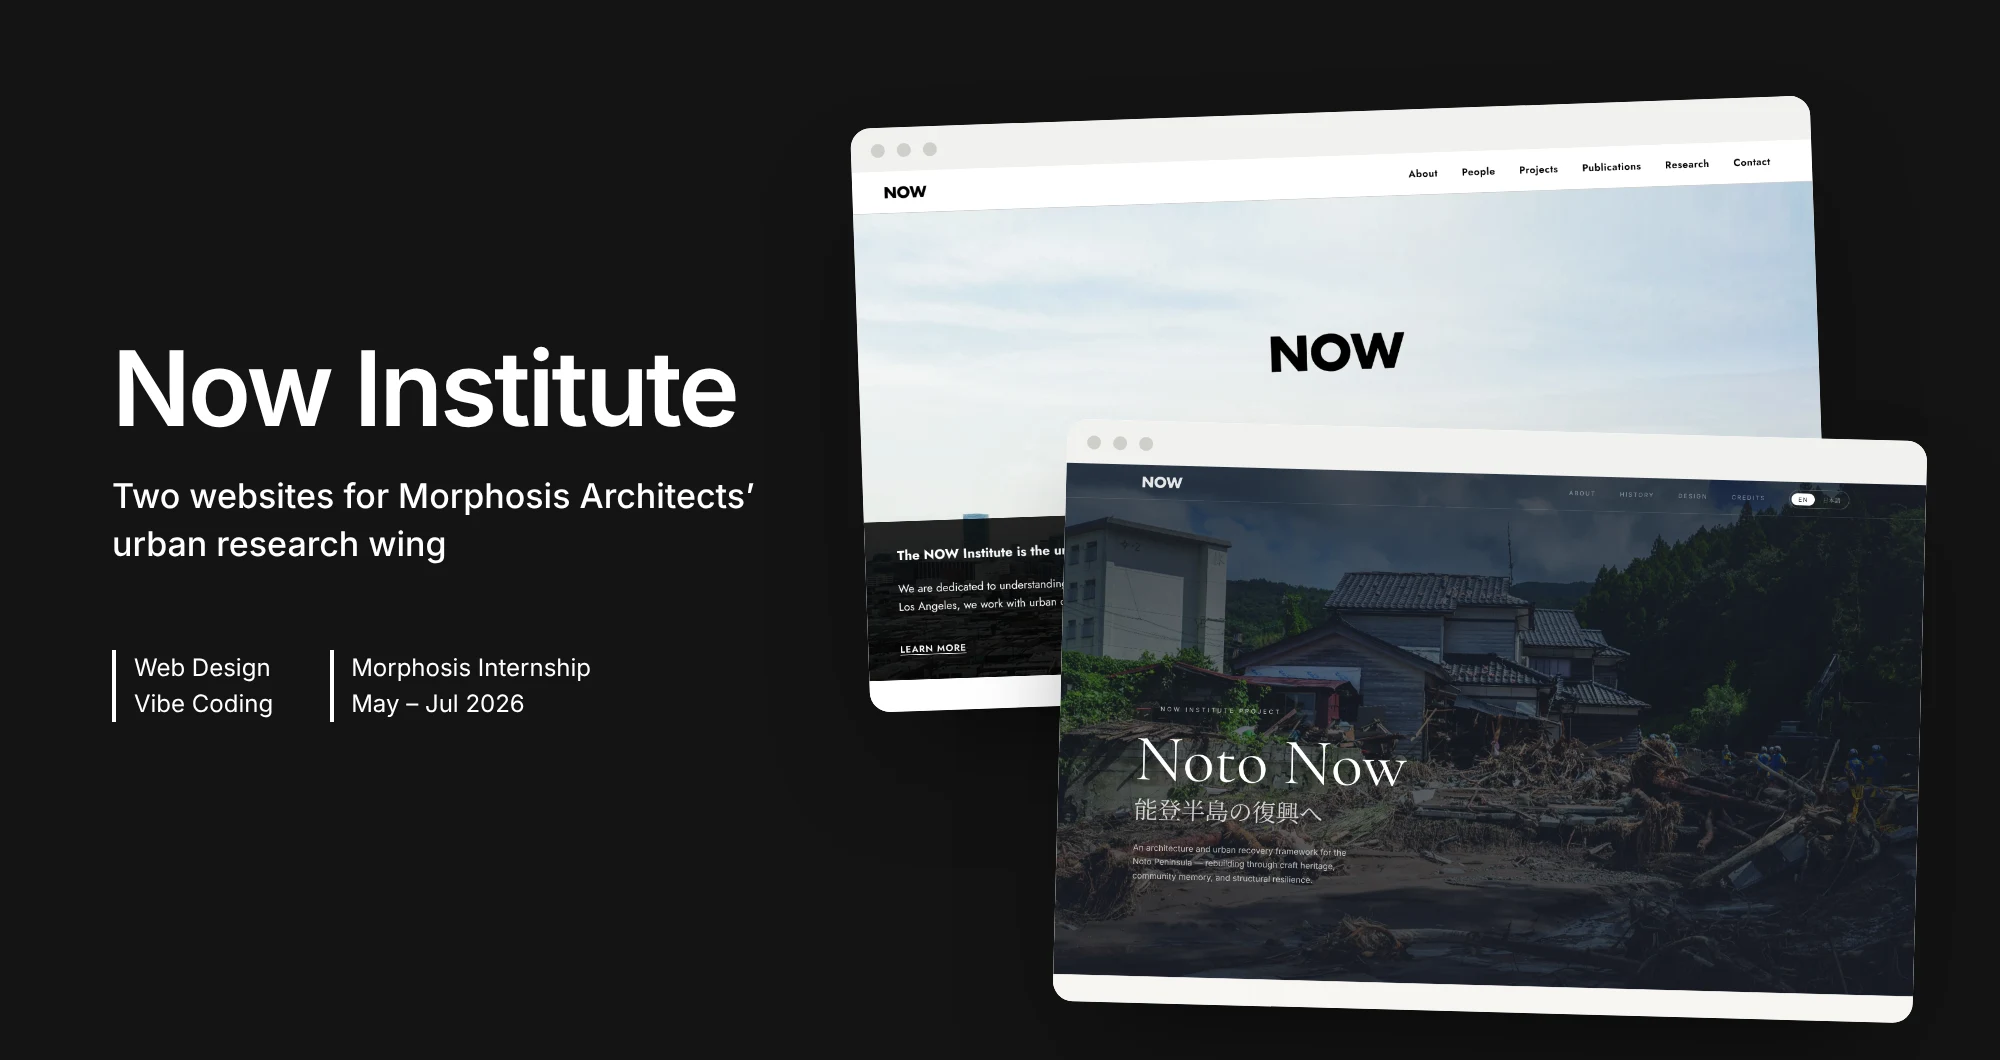
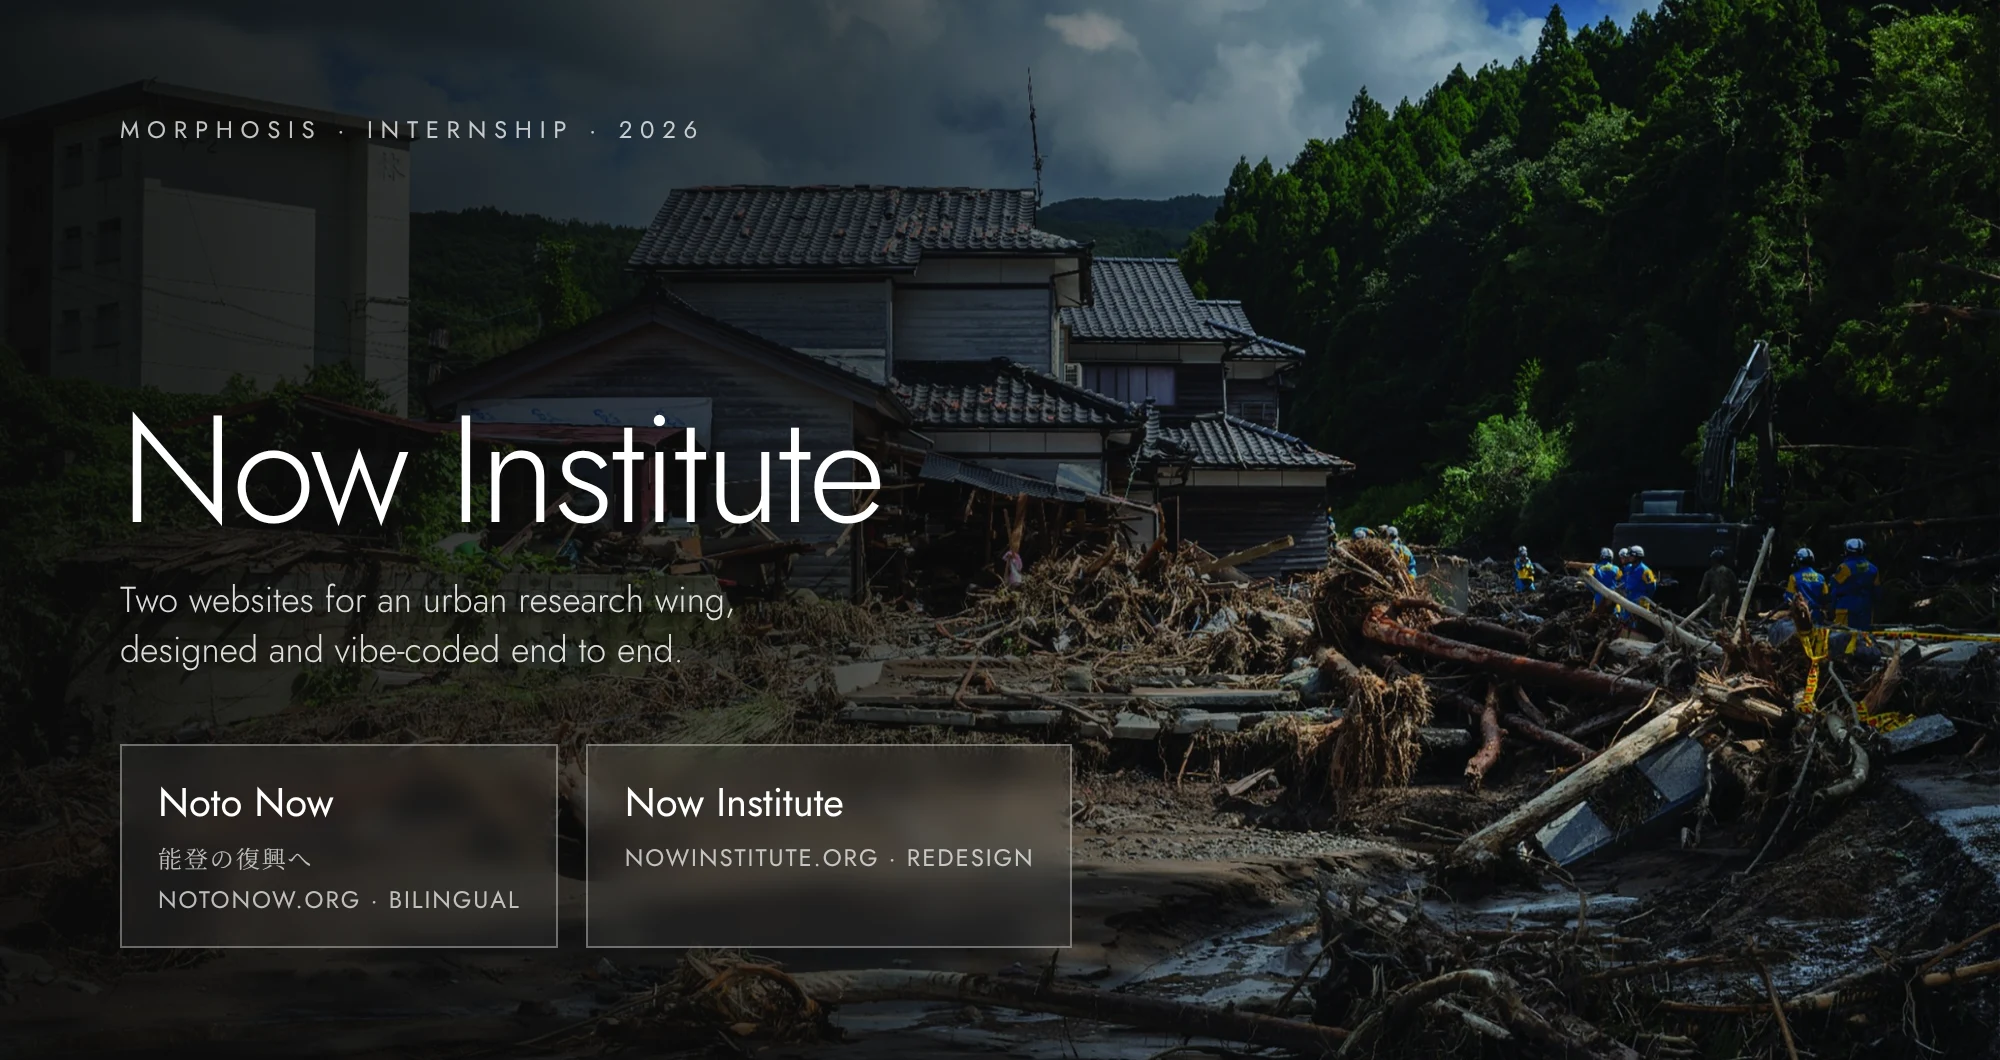
Tailored covers for Now Institute and Travel Mate
- Now Institute: editorial cover on the Noto Now hero photo (Jost and Noto
  Serif JP, matching the two sites), with a card for each website instead
  of browser mockups.
- Travel Mate: bright sky-blue Korea-trip cover in the app's blue, Korean
  name tag, boarding-pass details, a dashed flight path ending at the app's
  Seoul illustration, and the home screen in a phone.

Claude-Session: https://claude.ai/code/session_01XrSCNk8CdZFL88DQkgrBgR

diff --git a/ux.html b/ux.html
@@ -27,7 +27,7 @@
 <main class="page page-page" id="ux">
 <div class="page-content">
 <header class="cs-head"><h1 class="cs-title">UX Design<span class="dot">.</span></h1><p class="cs-sub">Case studies in research, product design and building, from internships, leadership roles and team projects.</p></header>
-<div class="gproj-list"><a class="gproj" href="now-institute.html"><div class="gproj-cover gproj-cover--bleed" style="aspect-ratio:2000/1060"><img alt="Now Institute cover" loading="lazy" onerror="this.hidden=true" src="images/index/cover-now-institute.webp"/></div><div class="gproj-txt"><span class="gproj-n">(01)</span><h2 class="gproj-t">Now Institute</h2><p class="gproj-sub">Two websites for Morphosis Architects’ urban research wing</p><p class="gproj-d">Designed and vibe-coded Noto Now and the Now Institute site, from research on every project to two live launches.</p><dl class="gproj-meta"><dt>Year</dt><dd>May – Jul 2026</dd><dt>Role</dt><dd>UX Design Intern, Morphosis</dd><dt>Tools</dt><dd>Figma, Claude Code, Vercel</dd></dl><div class="gproj-strip" style="grid-template-columns:178.97fr 177.78fr 166.67fr"><img alt="" loading="lazy" src="images/now-institute/03-screenshot-1778536857657.png" style="aspect-ratio:1.7897"/><img alt="" loading="lazy" src="images/now-institute/02-screenshot-2026-07-13-at-3.52.46pm.webp" style="aspect-ratio:1.7778"/><img alt="" loading="lazy" src="images/now-institute/04-notonow.png" style="aspect-ratio:1.6667"/></div><span class="gproj-go">View case study →</span></div></a><a class="gproj" href="hfes-stg.html"><div class="gproj-cover gproj-cover--bleed" style="aspect-ratio:2000/1000"><img alt="HFES STG cover" loading="lazy" onerror="this.hidden=true" src="images/index/cover-hfes-stg.webp"/></div><div class="gproj-txt"><span class="gproj-n">(02)</span><h2 class="gproj-t">HFES STG</h2><p class="gproj-sub">A website for the Sustainability Technical Group</p><p class="gproj-d">Led a volunteer team from a 200+ member survey through card sorting, testing and launch.</p><dl class="gproj-meta"><dt>Year</dt><dd>Aug 2025 – May 2026</dd><dt>Role</dt><dd>Website Lead</dd><dt>Methods</dt><dd>Survey, card sort, usability tests</dd></dl><div class="gproj-strip" style="grid-template-columns:196.46fr 133.78fr"><img alt="" loading="lazy" src="images/hfes-stg/04-screenshot-2026-03-27-at-3.34.46pm.png" style="aspect-ratio:1.9646"/><img alt="" loading="lazy" src="images/hfes-stg/06-wireframes.png" style="aspect-ratio:1.3378"/></div><span class="gproj-go">View case study →</span></div></a><a class="gproj" href="migrant-compass.html"><div class="gproj-cover gproj-cover--bleed" style="aspect-ratio:1920/940"><img alt="Migrant Compass cover" loading="lazy" onerror="this.hidden=true" src="images/index/05-title-page1.webp"/></div><div class="gproj-txt"><span class="gproj-n">(03)</span><h2 class="gproj-t">Migrant Compass</h2><p class="gproj-sub">Real-time guidance for migrants</p><p class="gproj-d">An offline-ready app giving migrants verified safety updates and resources, built at the IDEA Lab @ Fletcher.</p><dl class="gproj-meta"><dt>Year</dt><dd>Sep – Nov 2025</dd><dt>Role</dt><dd>UX research & design</dd><dt>Tools</dt><dd>Figma</dd></dl><div class="gproj-strip" style="grid-template-columns:50.96fr 51.02fr 51.02fr 45.40fr"><img alt="" loading="lazy" src="images/migrant-compass/06-migrant-compass-mobile-app-wireframe.png" style="aspect-ratio:0.5096"/><img alt="" loading="lazy" src="images/migrant-compass/15-migrant-compass-mobile-app-wireframe.png" style="aspect-ratio:0.5102"/><img alt="" loading="lazy" src="images/migrant-compass/19-w.png" style="aspect-ratio:0.5102"/><img alt="" loading="lazy" src="images/migrant-compass/21-4.png" style="aspect-ratio:0.4540"/></div><span class="gproj-go">View case study →</span></div></a><a class="gproj" href="travel-mate.html"><div class="gproj-cover gproj-cover--bleed" style="aspect-ratio:2000/1000"><img alt="Travel Mate cover" loading="lazy" onerror="this.hidden=true" src="images/index/cover-travel-mate.webp"/></div><div class="gproj-txt"><span class="gproj-n">(04)</span><h2 class="gproj-t">Travel Mate</h2><p class="gproj-sub">Group travel planning app</p><p class="gproj-d">Search, shared itineraries and expenses for planning a Korea trip with friends, designed with developers.</p><dl class="gproj-meta"><dt>Year</dt><dd>Sep – Dec 2024</dd><dt>Role</dt><dd>UX design, design system</dd><dt>Team</dt><dd>3 designers, 2 developers</dd></dl><div class="gproj-strip" style="grid-template-columns:83.95fr 78.85fr 134.05fr"><img alt="" loading="lazy" src="images/travel-mate/08-ia.png" style="aspect-ratio:0.8395"/><img alt="" loading="lazy" src="images/travel-mate/31-sheet-stay-dates.webp" style="aspect-ratio:0.7885"/><img alt="" loading="lazy" src="images/travel-mate/32-sheet-trip-dates.webp" style="aspect-ratio:1.3405"/></div><span class="gproj-go">View case study →</span></div></a><a class="gproj" href="trendy.html"><div class="gproj-cover gproj-cover--bleed" style="aspect-ratio:1500/734"><img alt="Trendy cover" loading="lazy" onerror="this.hidden=true" src="images/trendy/01-trendy.webp"/></div><div class="gproj-txt"><span class="gproj-n">(05)</span><h2 class="gproj-t">Trendy</h2><p class="gproj-sub">Beauty & fashion trend app</p><p class="gproj-d">A solo project taking a trend-shopping app from interviews and competitor research to brand and UI.</p><dl class="gproj-meta"><dt>Year</dt><dd>Aug 2024</dd><dt>Role</dt><dd>Solo designer</dd><dt>Methods</dt><dd>Interviews, journey map</dd></dl><div class="gproj-strip" style="grid-template-columns:235.78fr 167.52fr"><img alt="" loading="lazy" src="images/trendy/05-persona.webp" style="aspect-ratio:2.3578"/><img alt="" loading="lazy" src="images/trendy/10-final-screens.webp" style="aspect-ratio:1.6752"/></div><span class="gproj-go">View case study →</span></div></a></div>
+<div class="gproj-list"><a class="gproj" href="now-institute.html"><div class="gproj-cover gproj-cover--bleed" style="aspect-ratio:2000/1060"><img alt="Now Institute cover" loading="lazy" onerror="this.hidden=true" src="images/index/cover-now-institute.webp?v=2"/></div><div class="gproj-txt"><span class="gproj-n">(01)</span><h2 class="gproj-t">Now Institute</h2><p class="gproj-sub">Two websites for Morphosis Architects’ urban research wing</p><p class="gproj-d">Designed and vibe-coded Noto Now and the Now Institute site, from research on every project to two live launches.</p><dl class="gproj-meta"><dt>Year</dt><dd>May – Jul 2026</dd><dt>Role</dt><dd>UX Design Intern, Morphosis</dd><dt>Tools</dt><dd>Figma, Claude Code, Vercel</dd></dl><div class="gproj-strip" style="grid-template-columns:178.97fr 177.78fr 166.67fr"><img alt="" loading="lazy" src="images/now-institute/03-screenshot-1778536857657.png" style="aspect-ratio:1.7897"/><img alt="" loading="lazy" src="images/now-institute/02-screenshot-2026-07-13-at-3.52.46pm.webp" style="aspect-ratio:1.7778"/><img alt="" loading="lazy" src="images/now-institute/04-notonow.png" style="aspect-ratio:1.6667"/></div><span class="gproj-go">View case study →</span></div></a><a class="gproj" href="hfes-stg.html"><div class="gproj-cover gproj-cover--bleed" style="aspect-ratio:2000/1000"><img alt="HFES STG cover" loading="lazy" onerror="this.hidden=true" src="images/index/cover-hfes-stg.webp"/></div><div class="gproj-txt"><span class="gproj-n">(02)</span><h2 class="gproj-t">HFES STG</h2><p class="gproj-sub">A website for the Sustainability Technical Group</p><p class="gproj-d">Led a volunteer team from a 200+ member survey through card sorting, testing and launch.</p><dl class="gproj-meta"><dt>Year</dt><dd>Aug 2025 – May 2026</dd><dt>Role</dt><dd>Website Lead</dd><dt>Methods</dt><dd>Survey, card sort, usability tests</dd></dl><div class="gproj-strip" style="grid-template-columns:196.46fr 133.78fr"><img alt="" loading="lazy" src="images/hfes-stg/04-screenshot-2026-03-27-at-3.34.46pm.png" style="aspect-ratio:1.9646"/><img alt="" loading="lazy" src="images/hfes-stg/06-wireframes.png" style="aspect-ratio:1.3378"/></div><span class="gproj-go">View case study →</span></div></a><a class="gproj" href="migrant-compass.html"><div class="gproj-cover gproj-cover--bleed" style="aspect-ratio:1920/940"><img alt="Migrant Compass cover" loading="lazy" onerror="this.hidden=true" src="images/index/05-title-page1.webp"/></div><div class="gproj-txt"><span class="gproj-n">(03)</span><h2 class="gproj-t">Migrant Compass</h2><p class="gproj-sub">Real-time guidance for migrants</p><p class="gproj-d">An offline-ready app giving migrants verified safety updates and resources, built at the IDEA Lab @ Fletcher.</p><dl class="gproj-meta"><dt>Year</dt><dd>Sep – Nov 2025</dd><dt>Role</dt><dd>UX research & design</dd><dt>Tools</dt><dd>Figma</dd></dl><div class="gproj-strip" style="grid-template-columns:50.96fr 51.02fr 51.02fr 45.40fr"><img alt="" loading="lazy" src="images/migrant-compass/06-migrant-compass-mobile-app-wireframe.png" style="aspect-ratio:0.5096"/><img alt="" loading="lazy" src="images/migrant-compass/15-migrant-compass-mobile-app-wireframe.png" style="aspect-ratio:0.5102"/><img alt="" loading="lazy" src="images/migrant-compass/19-w.png" style="aspect-ratio:0.5102"/><img alt="" loading="lazy" src="images/migrant-compass/21-4.png" style="aspect-ratio:0.4540"/></div><span class="gproj-go">View case study →</span></div></a><a class="gproj" href="travel-mate.html"><div class="gproj-cover gproj-cover--bleed" style="aspect-ratio:2000/1000"><img alt="Travel Mate cover" loading="lazy" onerror="this.hidden=true" src="images/index/cover-travel-mate.webp?v=2"/></div><div class="gproj-txt"><span class="gproj-n">(04)</span><h2 class="gproj-t">Travel Mate</h2><p class="gproj-sub">Group travel planning app</p><p class="gproj-d">Search, shared itineraries and expenses for planning a Korea trip with friends, designed with developers.</p><dl class="gproj-meta"><dt>Year</dt><dd>Sep – Dec 2024</dd><dt>Role</dt><dd>UX design, design system</dd><dt>Team</dt><dd>3 designers, 2 developers</dd></dl><div class="gproj-strip" style="grid-template-columns:83.95fr 78.85fr 134.05fr"><img alt="" loading="lazy" src="images/travel-mate/08-ia.png" style="aspect-ratio:0.8395"/><img alt="" loading="lazy" src="images/travel-mate/31-sheet-stay-dates.webp" style="aspect-ratio:0.7885"/><img alt="" loading="lazy" src="images/travel-mate/32-sheet-trip-dates.webp" style="aspect-ratio:1.3405"/></div><span class="gproj-go">View case study →</span></div></a><a class="gproj" href="trendy.html"><div class="gproj-cover gproj-cover--bleed" style="aspect-ratio:1500/734"><img alt="Trendy cover" loading="lazy" onerror="this.hidden=true" src="images/trendy/01-trendy.webp"/></div><div class="gproj-txt"><span class="gproj-n">(05)</span><h2 class="gproj-t">Trendy</h2><p class="gproj-sub">Beauty & fashion trend app</p><p class="gproj-d">A solo project taking a trend-shopping app from interviews and competitor research to brand and UI.</p><dl class="gproj-meta"><dt>Year</dt><dd>Aug 2024</dd><dt>Role</dt><dd>Solo designer</dd><dt>Methods</dt><dd>Interviews, journey map</dd></dl><div class="gproj-strip" style="grid-template-columns:235.78fr 167.52fr"><img alt="" loading="lazy" src="images/trendy/05-persona.webp" style="aspect-ratio:2.3578"/><img alt="" loading="lazy" src="images/trendy/10-final-screens.webp" style="aspect-ratio:1.6752"/></div><span class="gproj-go">View case study →</span></div></a></div>
 <footer class="site-foot" id="contact">
 <div class="foot-row"><span>Jasmine Kim, UI/UX &amp; Graphic Designer</span>
 <span class="foot-links"><a href="mailto:jasminekim535@gmail.com">Email ↗</a><a href="https://www.linkedin.com/in/jasmine-kim-22838a339/" rel="noopener" target="_blank">LinkedIn ↗</a><a href="https://drive.google.com/file/d/1OOqGdKUFcIr9i4K3hlURFipVqCy_xz__/view?usp=sharing" rel="noopener" target="_blank">Resume ↗</a></span></div>

diff --git a/index.html b/index.html
@@ -32,7 +32,7 @@
 </header>
 <section aria-label="UX case studies" class="rsec" id="work">
 <div class="rsec-head"><h2 class="rsec-title">UX Design</h2><a class="pill" href="ux.html">Take a look</a></div>
-<div class="wkgrid wkgrid--feat"><a class="wk" href="now-institute.html"><div class="wk-img" style="aspect-ratio:2000/1060"><img alt="Now Institute cover" loading="lazy" onerror="this.hidden=true" onload="this.parentNode.style.aspectRatio='auto'" src="images/index/cover-now-institute.webp"/></div><h3 class="wk-title">Now Institute</h3><p class="wk-sub">Website Design for Morphosis</p><ul class="chips"><li>Vibe Coding</li><li>AI Tools</li><li>Prototyping</li><li>Internship</li></ul></a><a class="wk" href="hfes-stg.html"><div class="wk-img" style="aspect-ratio:2000/999"><img alt="HFES STG cover" loading="lazy" onerror="this.hidden=true" onload="this.parentNode.style.aspectRatio='auto'" src="images/index/cover-hfes-stg.webp"/></div><h3 class="wk-title">HFES STG</h3><p class="wk-sub">A website for the technical group</p><ul class="chips"><li>Leadership</li><li>Non-profit</li><li>Usability Testing</li></ul></a><a class="wk" href="migrant-compass.html"><div class="wk-img" style="aspect-ratio:1920/940"><img alt="Migrant Compass cover" loading="lazy" onerror="this.hidden=true" onload="this.parentNode.style.aspectRatio='auto'" src="images/index/05-title-page1.webp"/></div><h3 class="wk-title">Migrant Compass</h3><p class="wk-sub">Real-time guidance for migrants</p><ul class="chips"><li>Problem-solving</li><li>Teamwork</li></ul></a><a class="wk" href="travel-mate.html"><div class="wk-img" style="aspect-ratio:1500/739"><img alt="Travel Mate cover" loading="lazy" onerror="this.hidden=true" onload="this.parentNode.style.aspectRatio='auto'" src="images/index/cover-travel-mate.webp"/></div><h3 class="wk-title">Travel Mate</h3><p class="wk-sub">Group travel planning app</p><ul class="chips"><li>App Design</li><li>Cross-functional Teamwork</li></ul></a><a class="wk" href="trendy.html"><div class="wk-img" style="aspect-ratio:1500/734"><img alt="Trendy cover" loading="lazy" onerror="this.hidden=true" onload="this.parentNode.style.aspectRatio='auto'" src="images/trendy/01-trendy.webp"/></div><h3 class="wk-title">Trendy</h3><p class="wk-sub">Beauty &amp; fashion trend app</p><ul class="chips"><li>App Design</li><li>Logo Design</li><li>User Research</li></ul></a></div>
+<div class="wkgrid wkgrid--feat"><a class="wk" href="now-institute.html"><div class="wk-img" style="aspect-ratio:2000/1060"><img alt="Now Institute cover" loading="lazy" onerror="this.hidden=true" onload="this.parentNode.style.aspectRatio='auto'" src="images/index/cover-now-institute.webp?v=2"/></div><h3 class="wk-title">Now Institute</h3><p class="wk-sub">Website Design for Morphosis</p><ul class="chips"><li>Vibe Coding</li><li>AI Tools</li><li>Prototyping</li><li>Internship</li></ul></a><a class="wk" href="hfes-stg.html"><div class="wk-img" style="aspect-ratio:2000/999"><img alt="HFES STG cover" loading="lazy" onerror="this.hidden=true" onload="this.parentNode.style.aspectRatio='auto'" src="images/index/cover-hfes-stg.webp"/></div><h3 class="wk-title">HFES STG</h3><p class="wk-sub">A website for the technical group</p><ul class="chips"><li>Leadership</li><li>Non-profit</li><li>Usability Testing</li></ul></a><a class="wk" href="migrant-compass.html"><div class="wk-img" style="aspect-ratio:1920/940"><img alt="Migrant Compass cover" loading="lazy" onerror="this.hidden=true" onload="this.parentNode.style.aspectRatio='auto'" src="images/index/05-title-page1.webp"/></div><h3 class="wk-title">Migrant Compass</h3><p class="wk-sub">Real-time guidance for migrants</p><ul class="chips"><li>Problem-solving</li><li>Teamwork</li></ul></a><a class="wk" href="travel-mate.html"><div class="wk-img" style="aspect-ratio:1500/739"><img alt="Travel Mate cover" loading="lazy" onerror="this.hidden=true" onload="this.parentNode.style.aspectRatio='auto'" src="images/index/cover-travel-mate.webp?v=2"/></div><h3 class="wk-title">Travel Mate</h3><p class="wk-sub">Group travel planning app</p><ul class="chips"><li>App Design</li><li>Cross-functional Teamwork</li></ul></a><a class="wk" href="trendy.html"><div class="wk-img" style="aspect-ratio:1500/734"><img alt="Trendy cover" loading="lazy" onerror="this.hidden=true" onload="this.parentNode.style.aspectRatio='auto'" src="images/trendy/01-trendy.webp"/></div><h3 class="wk-title">Trendy</h3><p class="wk-sub">Beauty &amp; fashion trend app</p><ul class="chips"><li>App Design</li><li>Logo Design</li><li>User Research</li></ul></a></div>
 </section>
 <section aria-label="Graphic and art" class="rsec" id="designs">
 <div class="rsec-head"><h2 class="rsec-title">Graphic &amp; Art</h2><a class="pill" href="designs.html">Take a look</a></div>

diff --git a/images/MANIFEST.md b/images/MANIFEST.md
@@ -9,9 +9,9 @@ Until a file exists, the page shows a blank placeholder box at the correct size.
 
 | Path | Original file | Size (px) |
 |---|---|---|
-| `images/index/cover-now-institute.webp` | composed cover (Now Institute + Noto Now) | 2000×1060 |
+| `images/index/cover-now-institute.webp` | composed cover (Noto Now hero photo, both sites) | 2000×1060 |
 | `images/index/cover-hfes-stg.webp` | composed cover (desktop + mobile site) | 2000×1000 |
-| `images/index/cover-travel-mate.webp` | composed cover (title + app screens) | 2000×1000 |
+| `images/index/cover-travel-mate.webp` | composed cover (Korea trip theme, home screen, Seoul illustration) | 2000×1000 |
 | `images/index/01-screenshot-2026-07-07-at-2.21.54pm.png` | Screenshot-2026-07-07-at-2.21.54PM.png | 3024×1602 |
 | `images/index/02-screenshot-2026-03-27-at-3.55.09pm.png` | Screenshot-2026-03-27-at-3.55.09PM.png | 2994×1496 |
 | `images/index/03-title-page.png` | title_page.png | 1920×940 |
